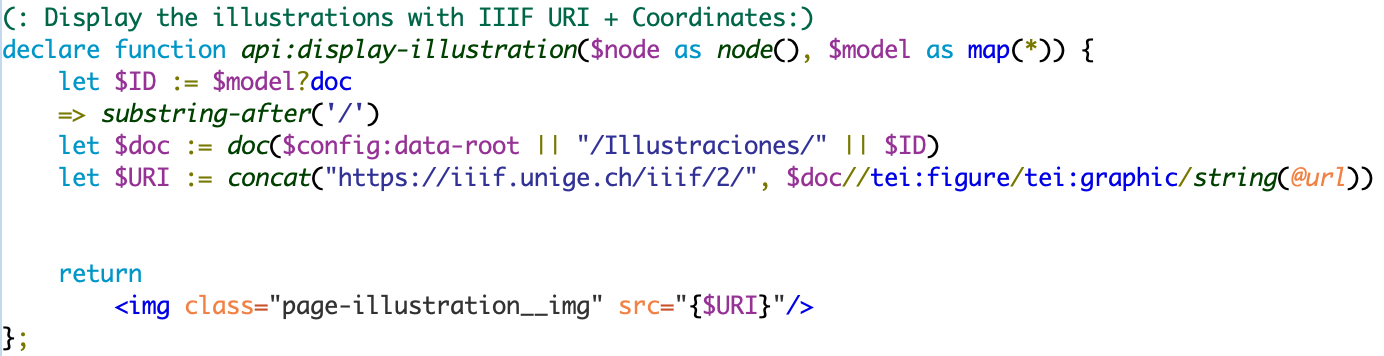
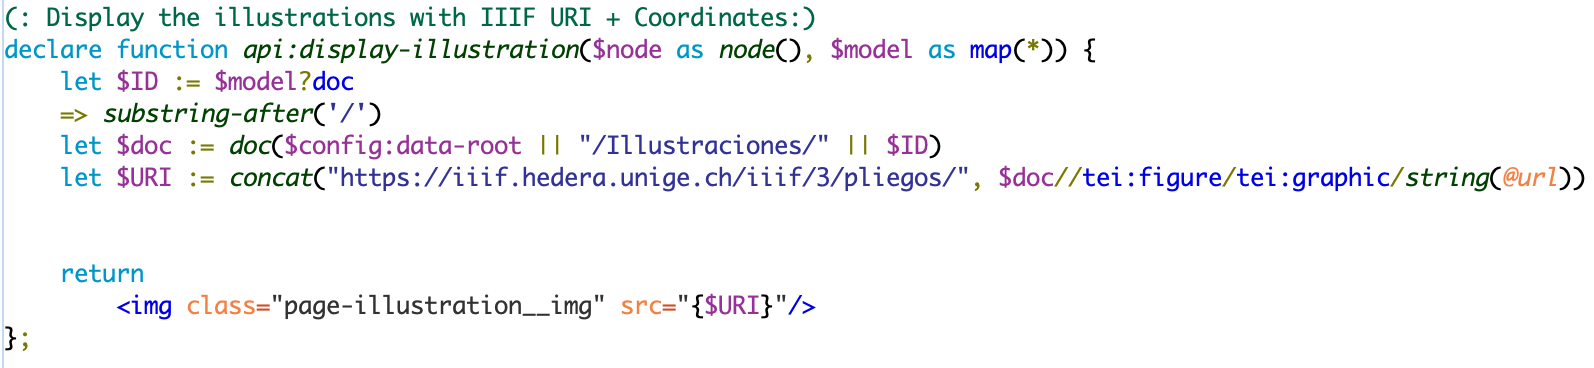
Update documentation and images (09/07/2024)

Changed region(s): [[0.0, 0.0, 0.9942, 0.5562], [0.0311, 0.7107, 0.5903, 0.8961], [0.0, 0.8652, 0.0311, 0.9888]]

diff --git a/02-templates.md b/02-templates.md
@@ -1,15 +1,13 @@
 # 2. Les templates
-[2.1. Les pliegos](#2.1-La-notice-d’un-pliego-:-page-pliegos.html)
-[2.2. Les illustrations](#2.2.-La-notice-d'une-illustration)
 
-## 2.1. La notice d’un pliego : page-pliegos.html
+## 2.1. Les documents
 <img src="images/02-Page-Item.png" alt="Structure du template page-pliego.html" width="500"/>
 
 Ce template permet d’afficher la notice d’un document avec les métadonnées descriptives, le texte et le facsimilé. Il a été créé à partir du template **facsimile.html** proposé par défaut par *TEI-Publisher*.
 
 La page se compose (de haut en bas) d’un menu de navigation général appelé depuis le template **menu.html** ; d’une barre d’outil appelée depuis le template **toolbar.html** ; d’un espace de consultation des métadonnées et des images ; et d’un pied de page. Les métadonnées, le contenu de la table des matières, les informations sur les gravures et les options de téléchargement sont créés avec l’élément `<pb-drawer>`, qui se situe entre l’élément `<app-header>` et l’élément `<main>`.
 
-Les métadonnées sont affichées en cliquant sur le bouton “Métadonnées”, qui fait apparaître un panneau à gauche. Pour cela, nous avons repris et adapté le code utilisé pour afficher la table des matières. Ainsi, elles sont gérées par le web-component `<pb-drawer toogle="metadataToogle">`. Il contient un web-component `<pb-view>`, avec un attribut `@xpath` ciblant le `<teiHeader>`. Le web-component `<pb-param>` définit des paramètres (avec les attributs `@name` et `@value`), repris par l’ODD pour sélectionner les métadonnées à afficher, en utilisant le prédicat suivant lors de la création du *model sequence* : `$parameters?mode='commentary'`. Pour le choix des métadonnées, voir 1.9. Les métadonnées.
+Les métadonnées sont affichées en cliquant sur le bouton “Métadonnées”, qui fait apparaître un panneau à gauche. Pour cela, nous avons repris et adapté le code utilisé pour afficher la table des matières. Ainsi, elles sont gérées par le web-component `<pb-drawer toogle="metadataToogle">`. Il contient un web-component `<pb-view>`, avec un attribut `@xpath` ciblant le `<teiHeader>`. Le web-component `<pb-param>` définit des paramètres (avec les attributs `@name` et `@value`), repris par l’ODD pour sélectionner les métadonnées à afficher, en utilisant le prédicat suivant lors de la création du *model sequence* : `$parameters?mode='commentary'`.
 
 <img src="images/02-Page-item-Metadata.png" alt="Code permettant d'afficher les métadonnées" width="500"/>
 
@@ -24,11 +22,11 @@ En ce qui concerne le téléchargement du code source XML TEI et celui des image
 <img src="images/02-Page-Item-fonction2.png" alt="Code permettant de télécharger des fichiers TEI" width="500"/>
 
 Le contenu principal de la page est défini avec l’élément `<main class="page-pliegos_ _content-body">`. La transcription est affichée avec un autre web-component `<pb-view>`, lequel est encadré par deux web-components `<pb-navigation>` permettant de changer de pages.
-Le web-component `<pb-facsimile>` permet d’afficher les images du document via le protocole IIIF. L’URI de base est celui du serveur de l’Université de Genève : “https://iiif.unige.ch/iiif/2/”. À cet URI, est concaténé le nom le nom de l’image sur le serveur IIIF. Celui-ci est indiqué dans les fichiers TEI, avec l’élément `<pb/>` et son attribut `@facs`. Dans l’ODD, cet élément est transformé en web-component `<pb-facs-link>`, ce qui permet ainsi d’afficher les images dans `<pb-facsimile>`.
+Le web-component `<pb-facsimile>` permet d’afficher les images du document via le protocole IIIF. L’URI de base est celui du serveur de l’Université de Genève : “https://iiif.hedera.unige.ch/iiif/3/pliegos/”. À cet URI, est concaténé le nom le nom de l’image sur le serveur IIIF. Celui-ci est indiqué dans les fichiers TEI, avec l’élément `<pb/>` et son attribut `@facs`. Dans l’ODD, cet élément est transformé en web-component `<pb-facs-link>`, ce qui permet ainsi d’afficher les images dans `<pb-facsimile>`.
 
 <img src="images/02-Page-Item-Facsimile.png" alt="Code permettant d'afficher les images numérisées d'un document" width="500"/>
 
-## 2.2. La notice d’une illustration
+## 2.2. Les illustrations
 
 *TEI-Publisher* permet de définir des templates spécifiques en fonction des collections. Dans le fichier **config.xqm**, il faut modifier la fonction `config:collection-config`. Si la collection s’appelle “Ilustraciones”, alors on applique le template **illustration.html**. Sinon, on applique le template par défaut défini dans le même fichier avec la fonction `config:default-template`.
 
@@ -63,7 +61,7 @@ Le titre est affiché dans un élément HTML `<section classe="page-pliegos__bre
 
 <img src="images/02-Toolbar-Titre.png" alt="Code permettant d'afficher le fil d'ariane et le titre d'un document" width="500"/>
 
-Si le contenu des boutons (sauf le dernier) est généré depuis le template page_pliegos.html (Voir 2.1. La notice d’un pliego), les boutons eux-mêmes sont affichés avec **toolbar.html**, dans un élément `<paper-button>`. Chaque bouton est relié à son contenu via l’attribut `@id` de l’élément `<paper-button>`, qui est repris par l’attribut `@toggle` du web-component `<pb-drawer>` dans le fichier **page_pliegos.html** (Figure 14).
+Si le contenu des boutons (sauf le dernier) est généré depuis le template page_pliegos.html (Voir 2.1. La notice d’un pliego), les boutons eux-mêmes sont affichés avec **toolbar.html**, dans un élément `<paper-button>`. Chaque bouton est relié à son contenu via l’attribut `@id` de l’élément `<paper-button>`, qui est repris par l’attribut `@toggle` du web-component `<pb-drawer>` dans le fichier **page_pliegos.html**.
 
 <img src="images/02-Toolbar-BoutonMetadonnees.png" alt="Exemple de code permettant d'afficher un bouton dans la barre d'outils" width="700"/>
 
@@ -136,7 +134,7 @@ Pour associer ce template aux fichiers du dossier **Documentation**, il faut mod
 
 <img src="images/02-Static-ConfigXqm.png" alt="Configuration de la collection Documentation" width="400"/>
 
-Pour la mise en page, des règles spécifiques ont été ajoutées à l’ODD (Voir 1.10. Les pages statiques).
+Pour la mise en page, des règles spécifiques ont été ajoutées à l’ODD.
 
 #### 2.6.1.3. La traduction des pages
 Pour que les pages changent de langue en fonction du choix de l’utilisateur, il faut ajouter des attributs aux éléments `<pb-page>` et `<pb-view>` du template **static.html** :

diff --git a/04-recherche.md b/04-recherche.md
@@ -17,7 +17,7 @@ La fonction `idx:get-metadata` permet de définir les métadonnées à transform
 
 <img src="images/04-Recherche-FacettesDoc.png" width="500" alt="Facettes pour la collection Pliegos"/>
 
-Sur le modèle du projet Van Gogh, nous avons ajouté une fonction (`idx:parse-date`) permettant de regrouper les dates sous un même label (Années 1840, 1850, etc.).
+Sur le modèle du [projet Van Gogh](https://gitlab.existsolutions.com/tei-publisher/vangogh), nous avons ajouté une fonction (`idx:parse-date`) permettant de regrouper les dates sous un même label (Années 1840, 1850, etc.).
 
 <img src="images/04-Recherche-Facette-IndexDates.png" width="300" alt="Fonction permettant de regrouper les dates sous différents labels"/>
 
@@ -36,12 +36,12 @@ Dans le fichier **index.xql**, pour chaque catégorie de mots-clés du fichier *
 <img src="images/04-Recherche-FacettesFonction2.png" width="300" alt="Utilisation de la fonction idx:get-femenino dans la fonction idx:get-metadata"/>
 
 ### 4.2.2. Étape 2 : Configuration de l’affichage (config.xqm)
-L’affichage des facettes (via **index.html** et **search.html**) est spécifié dans le fichier **config.xqm**, avec la variable `$config:facets`. Chaque facette est décrite avec une `map`. Celle-ci indique l’identifiant de la facette à paramètrer (i.e. celui défini dans **index.xql**), le titre à afficher, le nombre de facettes maximum à montrer (les autres seront affichées par l’utilisateur en cliquant sur une case), leur aspect hiérarchique (i.e. si les informations sont imbriquées les unes dans les autres), ainsi que la manière de les traduire à l’aide de web-component `<pb-i18n>`.
+L’affichage des facettes (via **index.html**) est spécifié dans le fichier **config.xqm**, avec la variable `$config:facets`. Chaque facette est décrite avec une `map`. Celle-ci indique l’identifiant de la facette à paramètrer (i.e. celui défini dans **index.xql**), le titre à afficher, le nombre de facettes maximum à montrer (les autres seront affichées par l’utilisateur en cliquant sur une case), leur aspect hiérarchique (i.e. si les informations sont imbriquées les unes dans les autres), ainsi que la manière de les traduire à l’aide de web-component `<pb-i18n>`.
 
 <img src="images/04-Recherche-FacettesConfig.png" width="500" alt="Exemple de paramétrage des facettes avec $config:facets"/>
 
 ### 4.2.3. Étape 3 : L’indexation des facettes (collection.xconf)
-Pour indexer les informations et créer les facettes, il faut ajouter dans l’élément `<text>` du fichier **collection.xconf** des sous-éléments `<facet>` (Figure 41). Ceux-ci se composent d’un attribut `@dimension`, qui cible l’identifiant défini dans **index.xql**, et d’un attribut `@expression` indiquant, sous la forme d’une fonction, les éléments TEI à indexer. Le seul élément à modifier dans cette fonction est le deuxième élément de la parenthèse, qui reprend l’identifiant choisi dans **index.xql**.
+Pour indexer les informations et créer les facettes, il faut ajouter dans l’élément `<text>` du fichier **collection.xconf** des sous-éléments `<facet>`. Ceux-ci se composent d’un attribut `@dimension`, qui cible l’identifiant défini dans **index.xql**, et d’un attribut `@expression` indiquant, sous la forme d’une fonction, les éléments TEI à indexer. Le seul élément à modifier dans cette fonction est le deuxième élément de la parenthèse, qui reprend l’identifiant choisi dans **index.xql**.
 
 Lors de la sauvegarde de ce fichier (toujours depuis *Exide*), l’ensemble des données sera ré-indexé à partir des nouvelles règles définies.
 
@@ -69,7 +69,7 @@ Les *fields* permettent de trier les documents d’une collection ou d’effectu
 ### 4.3.1. Étape 1 : L’indexation (collection.xconf)
 Les options de tri sont définies sur le même modèle que les facettes, en utilisant l’élément `<field>`. Il se compose d’un attribut `@name`, qui donne un identifiant au filtre, et d’un attribut `@expression`, qui indique à l’aide d’une expression XPath, les éléments TEI sur lesquels repose le filtre. Il est également possible d’associer des types de valeurs XQuery (`xs:date`, `xs:integer`, etc.), qui améliorent les performances du tri. Ainsi, pour le filtre “date”, nous avons ajouté un `@type="xs:date"`.
 
-<img src="images/04-Recherche-FacettesFonctionDisplay.png" width="700" alt="Création d’option de tri avec collection.xconf"/>
+<img src="images/04-Recherche-Filtres.png" width="700" alt="Création d’option de tri avec collection.xconf"/>
 
 ### 4.3.2. Étape 2 : L’affichage des options de tri (index.html)
 Le choix des options de tri est défini dans le fichier **index.html** avec le web-component `<pb-browse-docs>`. Il se compose tout d’abord d’un attribut `@sort-options`. Sa valeur est une map, constituée d’un label avec le nom à afficher sur l’interface et d’une valeur qui reprend la valeur de l’attribut `@name` dans le fichier **collection.xconf**.

diff --git a/07-responsiveDesign.md b/07-responsiveDesign.md
@@ -4,7 +4,7 @@ La plupart des règles pour le *responsive design* (*media queries*) sont géré
 
 <img src="images/07-Responsive-Css.png" width="350" alt="Exemples de media queries pour gérer l’affichage des facsimiles et des gravures sur les notices de documents pour des écrans de moins de 769px"/>
 
-Une exception est faite pour le menu de navigation. En effet, pour créer un menu responsive, TEI-Publisher a recours au web component <pb-media-query>, dont l’attribut @query précise la taille de l’écran. Nous avons adapté à nos besoins le code proposé par défaut et appliqué ce code à l’ensemble des pages (Par défaut, TEI-Publisher a choisi des méthodes différentes en fonction des pages).
+Une exception est faite pour le menu de navigation. En effet, pour créer un menu responsive, TEI-Publisher a recours au web component `<pb-media-query>`, dont l’attribut `@query` précise la taille de l’écran. Nous avons adapté à nos besoins le code proposé par défaut et appliqué ce code à l’ensemble des pages (Par défaut, TEI-Publisher a choisi des méthodes différentes en fonction des pages).
 Le menu de navigation est créé avec **menu.html**. Ce fichier contient un premier élément `<pb-media-query>` qui gère l’affichage du menu pour des écrans de plus de 1024px ; le second élément `<pb-media-query>`, les écrans de moins de 1024px. Dans ce cas, la barre de menu est réduite au logo du projet, à la barre de recherche et à l’icône d’un *hamburger menu*.
 
 <img src="images/07-Responsive-Menu.png" width="600" alt="Affichage du menu pour les écrans de moins de 1024px"/>

diff --git a/README.md b/README.md
@@ -1,3 +1,14 @@
-# Documentation of the Web Application Desenrollando el cordel
+# Documentation du site web Desenrollando el cordel
 
-[To come]
+Ce site Web a été réalisé avec la version 8 de TEI-Publisher et la version 6.0.0 d'eXist-DB.
+Cette documentation explique toutes les étapes qui ont permis d'aboutir au site final, disponible à cette adresse [https://desenrollandoelcordel.unige.ch](https://desenrollandoelcordel.unige.ch) :
+
+1. La création de l'application [à venir]
+1. [Les templates et les pages HTML](02-templates.md)
+1. [Les collections](03-Collections.md)
+1. [La recherche simple et le browsing](04-recherche.md)
+1. [Le multilinguisme](05-multilinguisme.md)
+1. [Les feuilles de style](06-css.md)
+1. [Le responsive design](07-responsiveDesign.md)
+1. Les index de noms de lieux [à venir]
+1. [Le déploiement sur serveur](09-serveur.md)

diff --git a/05-multilinguisme.md b/05-multilinguisme.md
@@ -14,6 +14,3 @@ Par exemple, pour traduire le label des facettes, dans chaque fichier .json, il 
 <img src="images/05-I18n-JsonEnglish.png" width="300" alt="Traduction en anglais du nom des facettes"/>
 
 Cette clé est ensuite reprise dans le fichier **config.xqm** (variable `$config:facets` : Voir 4.2.2. Configuration de l’affichage) de la manière suivante : facets.[cle_unique]. Par exemple, pour afficher les traductions du label de la facette “Collection”, il faut utiliser `facets.collection`.
-La clé “more” est utilisée avec le web-component `<pb-i18n>` dans le fichier facets.xql (`fonction facets:display`, Figure 51).
-
-<img src="images/05-I18n-More.png" width="800" alt="Exemple de traduction d’une portion de texte"/>

diff --git a/06-css.md b/06-css.md
@@ -7,5 +7,4 @@ L’ensemble des styles, c’est-à-dire ceux de la feuille de style par défaut
 Les styles propres à certains éléments TEI (comme les titres ou les métadonnées) sont définis avec la feuille de style **odd_style.css** (**/resources/odd**).
 La charte graphique utilisée est la suivante :
 - Couleur primaire (Vert) : #85A782
-- Couleur secondaire (Violet) : #9999CC
-- Couleur d’accentuation (Jaune pâle) : #F6EDD9
+- Couleur secondaire (Violet) : #663399

diff --git a/09-serveur.md b/09-serveur.md
@@ -1,4 +1,4 @@
-# 8. La mise en place du serveur
+# 9. La mise en place du serveur
 
 Pour mettre en ligne le site web, nous avons besoin d’un serveur proxy, dans notre cas [Apache HTTP Server](https://httpd.apache.org/), afin que les utilisateurs interagissent avec ce serveur, et non directement avec *eXist-DB* qui leur est “caché” (*reverse-proxy*). Étapes à suivre :
 
